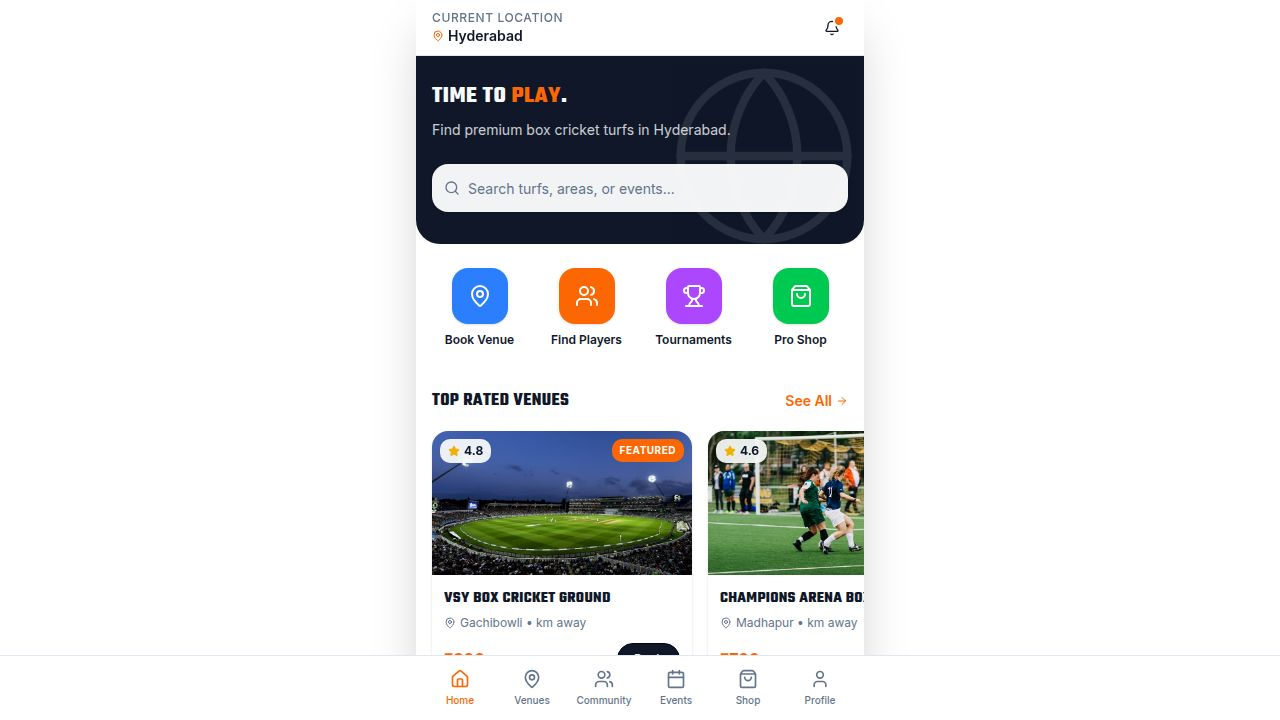
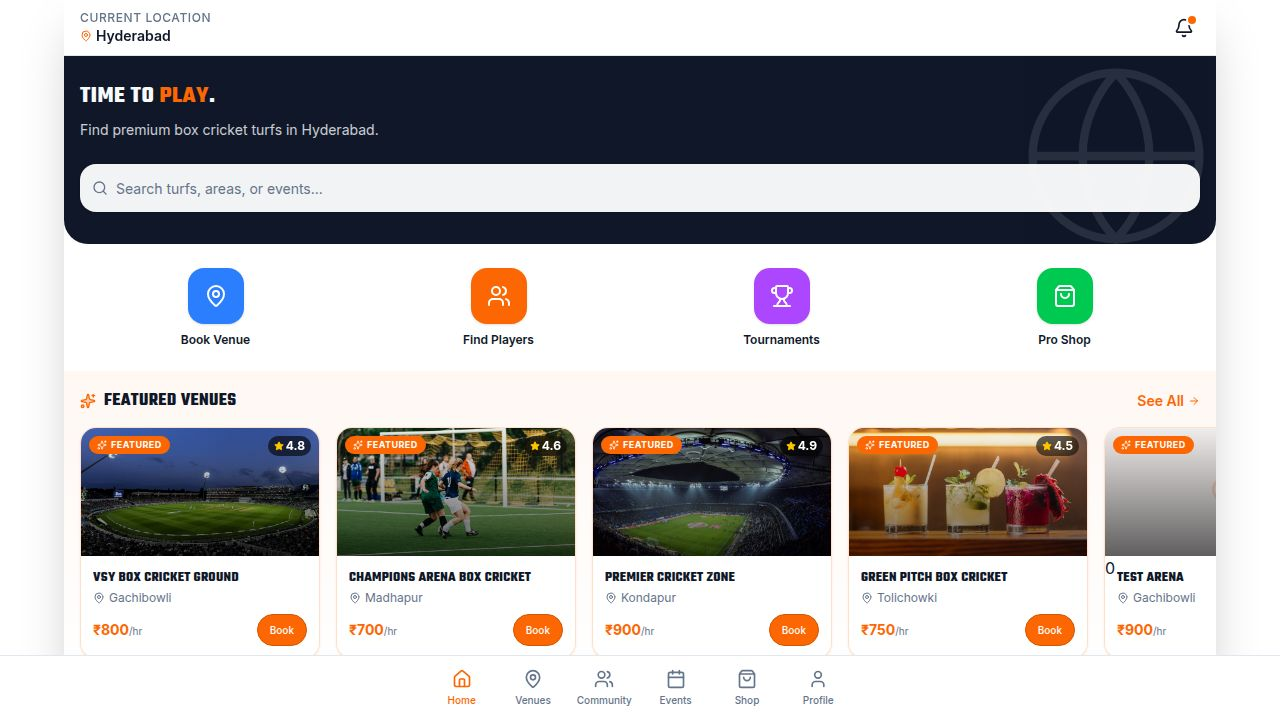
Improve search functionality and adjust bottom navigation for mobile view
Update home page search to broadly match turf, tournament, and event terms, and adjust bottom navigation spacing to prevent shop button overlap on mobile.

Replit-Commit-Author: Agent
Replit-Commit-Session-Id: 364a5013-8551-4919-b284-7850904a9c94
Replit-Commit-Checkpoint-Type: full_checkpoint
Replit-Commit-Event-Id: 41a59f01-dc3c-41f5-afe5-fb6cf17a72c0
Replit-Commit-Screenshot-Url: https://storage.googleapis.com/screenshot-production-us-central1/5b0ada3f-998b-499a-9cfd-28bdb1672ace/364a5013-8551-4919-b284-7850904a9c94/6ZwFGIt
Replit-Helium-Checkpoint-Created: true

diff --git a/artifacts/vsy-sports/src/pages/home.tsx b/artifacts/vsy-sports/src/pages/home.tsx
@@ -5,11 +5,13 @@ import { Input } from "@/components/ui/input";
 import { Search, MapPin, Star, ArrowRight, Users, Trophy, ShoppingBag, Navigation, Loader2, AlertCircle, Sparkles, Calendar, IndianRupee } from "lucide-react";
 import { useListTurfs, useListEvents } from "@workspace/api-client-react";
 import { Link } from "wouter";
+import { useMemo, useState } from "react";
 import { useGeolocation } from "@/hooks/use-geolocation";
 import { useLocation } from "wouter";
 
 export default function Home() {
   const [, navigate] = useLocation();
+  const [search, setSearch] = useState("");
   const { lat, lng, city, loading: locLoading, error: locError, request: requestLocation } = useGeolocation(true);
 
   const { data: nearbyTurfs, isLoading: loadingNearby } = useListTurfs(
@@ -40,6 +42,52 @@ export default function Home() {
   const isLoadingTurfs = lat && lng ? loadingNearby : loadingTop;
   const hasFeaturedTurfs = featuredTurfs && featuredTurfs.length > 0;
   const hasFeaturedEvents = featuredEvents && featuredEvents.length > 0;
+  const searchQuery = search.trim().toLowerCase();
+  const allSearchResults = useMemo(() => {
+    const turfMatches = (displayTurfs ?? []).filter((turf: any) => {
+      if (!searchQuery) return true;
+      const haystack = [
+        turf.name,
+        turf.area,
+        turf.city,
+        turf.location,
+        turf.address,
+        turf.type,
+        "turf",
+        "venue",
+        "ground",
+        "box cricket",
+        "book venue",
+      ]
+        .filter(Boolean)
+        .join(" ")
+        .toLowerCase();
+      return haystack.includes(searchQuery);
+    });
+
+    const eventMatches = (featuredEvents ?? []).filter((event: any) => {
+      if (!searchQuery) return true;
+      const typeLabel = event.type === "tournament" ? "tournament event" : "event";
+      const haystack = [
+        event.title,
+        event.description,
+        event.venue,
+        event.area,
+        event.prize,
+        typeLabel,
+        "tournament",
+        "tornament",
+        "event",
+      ]
+        .filter(Boolean)
+        .join(" ")
+        .toLowerCase();
+      return haystack.includes(searchQuery);
+    });
+
+    const shopMatch = searchQuery.includes("shop") || searchQuery.includes("store") || searchQuery.includes("product");
+    return { turfMatches, eventMatches, shopMatch };
+  }, [displayTurfs, featuredEvents, searchQuery]);
 
   return (
     <div className="flex flex-col min-h-full">
@@ -60,10 +108,49 @@ export default function Home() {
             <Input
               placeholder="Search turfs, areas, or events..."
               className="pl-9 bg-background/95 border-none shadow-sm text-foreground h-12 rounded-xl"
-              onFocus={() => navigate("/turfs")}
-              readOnly
+              value={search}
+              onChange={e => setSearch(e.target.value)}
             />
           </div>
+          {searchQuery && (
+            <div className="relative z-10 mt-3 rounded-2xl bg-background/95 p-3 shadow-sm space-y-3">
+              <div>
+                <p className="text-[10px] font-black uppercase tracking-wider text-muted-foreground mb-2">Matching Venues</p>
+                <div className="space-y-2">
+                  {allSearchResults.turfMatches.length > 0 ? allSearchResults.turfMatches.slice(0, 3).map((turf: any) => (
+                    <Link key={turf.id} href={`/turfs/${turf.id}`} className="flex items-center gap-3 rounded-xl border border-border p-2">
+                      <div className="h-11 w-11 rounded-lg bg-muted overflow-hidden shrink-0">
+                        {turf.images?.[0] ? <img src={turf.images[0]} alt={turf.name} className="h-full w-full object-cover" /> : <MapPin className="h-5 w-5 m-3 text-muted-foreground" />}
+                      </div>
+                      <div className="min-w-0 flex-1">
+                        <p className="text-sm font-bold truncate">{turf.name}</p>
+                        <p className="text-xs text-muted-foreground truncate">{turf.area || turf.city || "Turf"}</p>
+                      </div>
+                    </Link>
+                  )) : <p className="text-xs text-muted-foreground">No matching venues.</p>}
+                </div>
+              </div>
+              <div>
+                <p className="text-[10px] font-black uppercase tracking-wider text-muted-foreground mb-2">Matching Events</p>
+                <div className="space-y-2">
+                  {allSearchResults.eventMatches.length > 0 ? allSearchResults.eventMatches.slice(0, 3).map((event: any) => (
+                    <Link key={event.id} href={`/events/${event.id}`} className="flex items-center gap-3 rounded-xl border border-border p-2">
+                      <div className="h-11 w-11 rounded-lg bg-muted overflow-hidden shrink-0 flex items-center justify-center">
+                        {event.image ? <img src={event.image} alt={event.title} className="h-full w-full object-cover" /> : <Trophy className="h-5 w-5 text-primary" />}
+                      </div>
+                      <div className="min-w-0 flex-1">
+                        <p className="text-sm font-bold truncate">{event.title}</p>
+                        <p className="text-xs text-muted-foreground truncate">{event.type === "tournament" ? "Tournament" : "Event"}{event.venue ? ` · ${event.venue}` : ""}</p>
+                      </div>
+                    </Link>
+                  )) : <p className="text-xs text-muted-foreground">No matching events.</p>}
+                </div>
+              </div>
+              <Button variant="secondary" className="w-full rounded-xl" onClick={() => navigate(allSearchResults.shopMatch ? "/shop" : allSearchResults.eventMatches.length > 0 ? "/events" : "/turfs")}>
+                Search all results
+              </Button>
+            </div>
+          )}
         </div>
 
         {/* Quick Actions */}

diff --git a/artifacts/vsy-sports/src/components/layout/BottomNav.tsx b/artifacts/vsy-sports/src/components/layout/BottomNav.tsx
@@ -29,11 +29,11 @@ export function BottomNav() {
 
   return (
     <div className="fixed bottom-0 left-0 right-0 z-50 bg-background border-t border-border pb-safe">
-      <div className="flex justify-around items-center h-16 max-w-md mx-auto w-full px-2">
+      <div className="flex justify-around items-center h-16 max-w-md mx-auto w-full px-3 gap-1">
         {navItems.map((item) => {
           const isActive = location === item.href || (item.href !== "/" && location.startsWith(item.href));
           return (
-            <Link key={item.name} href={item.href} className={`flex flex-col items-center justify-center w-full h-full space-y-1 ${isActive ? "text-primary" : "text-muted-foreground hover:text-foreground"}`}>
+            <Link key={item.name} href={item.href} className={`flex flex-col items-center justify-center min-w-0 flex-1 h-full space-y-1 ${isActive ? "text-primary" : "text-muted-foreground hover:text-foreground"}`}>
                 <div className="relative">
                   <item.icon className="h-5 w-5" />
                   {item.badge && item.badge > 0 && (
